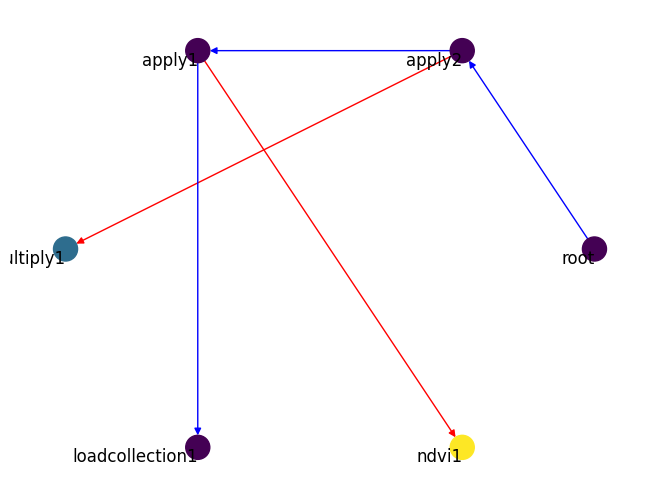
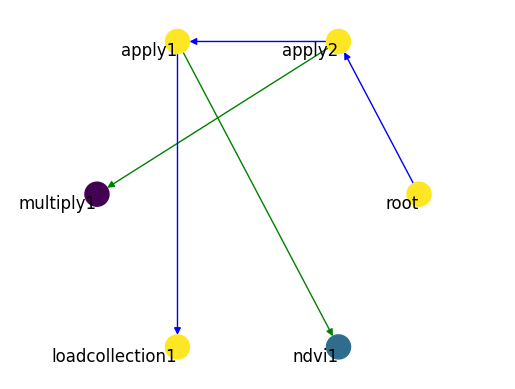
add margin to plot

diff --git a/openeo_pg_parser_networkx/graph.py b/openeo_pg_parser_networkx/graph.py
@@ -492,6 +492,11 @@ class OpenEOProcessGraph:
             for edge in self.G.edges
         ]
 
+        # To help with truncated labels
+        import matplotlib.pyplot as plt
+
+        plt.margins(x=0.2)
+
         nx.draw_circular(
             self.G,
             labels=nx.get_node_attributes(self.G, "node_name"),
